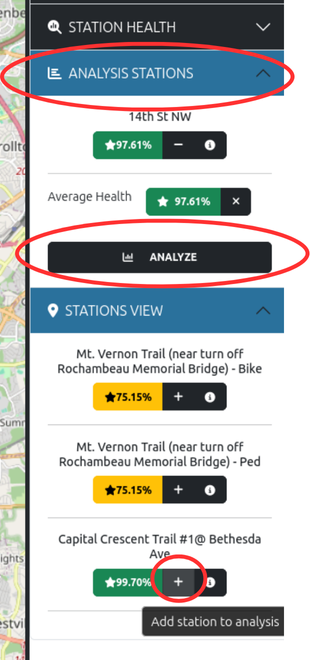
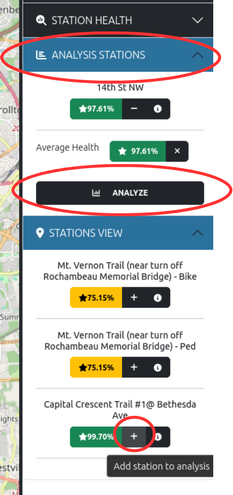
adding to analysis section

diff --git a/_documents/15-exploreplus.md b/_documents/15-exploreplus.md
@@ -49,14 +49,16 @@ As with almost all figures, if you want to zoom into a specific date range on th
 To further analyze and explore data for a single or multiple stations, click the "+" symbol that is located next to the colored star bar (Fig. 6). Each time a station of interest is selected by clicking the "+" symbol, it is added under the "Analysis Stations" section of the right sidebar. Once the stations of interest are selected, click "Analyze".
 
 <figure class="align-left">
-    <img src="{{ site.url }}{{ site.baseurl }}/assets/images/explore-fig6.png" alt="">
+    <img src="{{ site.url }}{{ site.baseurl }}/assets/images/explore-fig6.png" alt="" style="float:center;width:200px;height:400x;">
     <figcaption>Fig. 6: The circled "+" symbol allows you to add stations to the list of "Analysis Stations" that will allow you to further explore data from each selected location. Once all the stations of interest have been selected, click the "Analyze" button.</figcaption>
 </figure>
 
 Once the "Analyze" button is clicked, a new window will appear in the lower half of your screen. If the new window doesn't appear, click on the "chart" icon in the lower left hand corner of the screen (Fig. 7). And, if at first no data is shown is shown, click the "Reload" button. (And make sure your selected locations are listed under the "Analysis Stations" section.)
 
 <figure class="align-left">
-    <img src="{{ site.url }}{{ site.baseurl }}/assets/images/explore-fig7.png" alt="">
+    <div style="text-align:center;">
+        <img src="{{ site.url }}{{ site.baseurl }}/assets/images/explore-fig7.png" alt="">
+    </div>
     <figcaption>Fig. 7: The circled "chart" icon will allow you to toggle between the available data analysis tools and the map.</figcaption>
 </figure>
 
@@ -66,3 +68,4 @@ To expand the "Charts & Analysis" window, you can either click on the "zoom in" 
     <img src="{{ site.url }}{{ site.baseurl }}/assets/images/explore-fig8.png" alt="">
     <figcaption>Fig. 8: The circled icons highlight the "zoom In" option for the "Charts & Analysis" window, the "Reload" button to load the data being used to generate the data visualizations, and the "cheeseburger" icon to hide and unhide the right sidebar menu.</figcaption>
 </figure>
+
